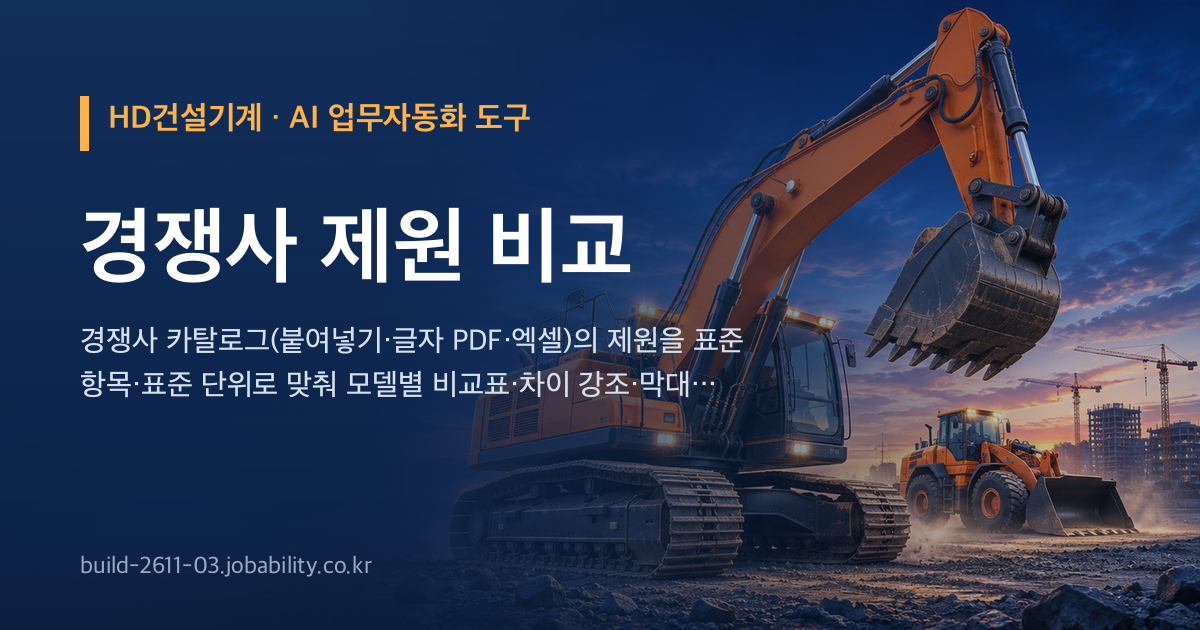
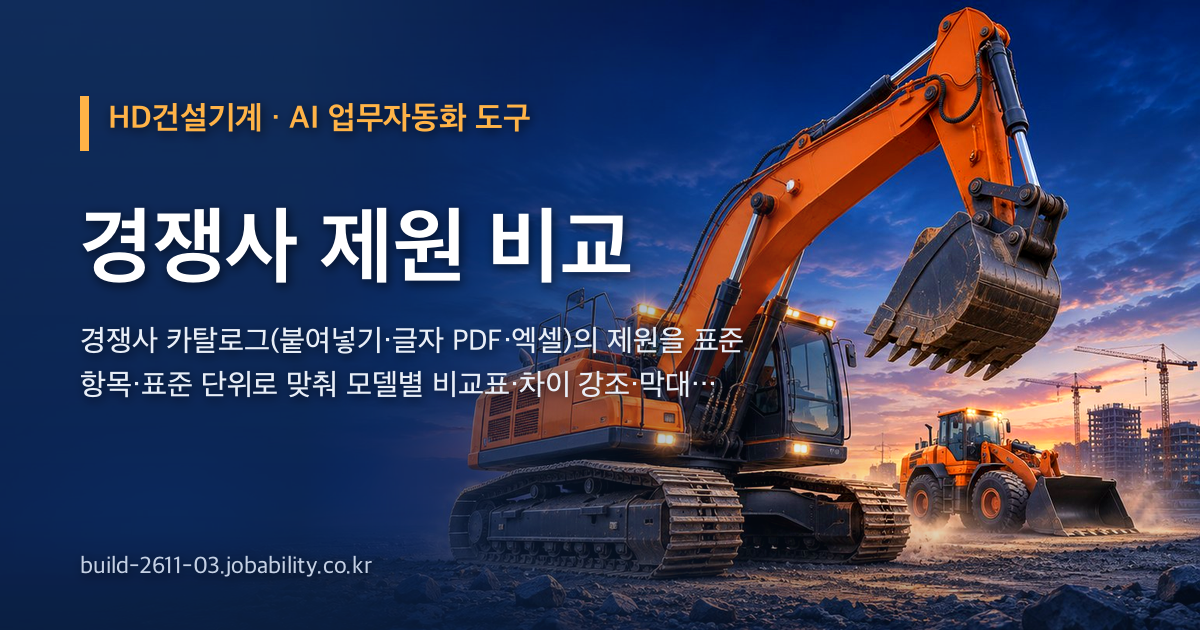
공유 그림 다시(사진 또렷하게) · 판 2026-11-13.12

Changed region(s): [[0.37, 0.0, 1.0, 0.9349], [0.0617, 0.8746, 0.3083, 0.9048], [0.9558, 0.1508, 0.9867, 0.181]]

diff --git a/index.html b/index.html
@@ -12,8 +12,8 @@
 <meta property="og:title" content="HD건설기계 · 경쟁사 제원 비교">
 <meta property="og:description" content="경쟁사 카탈로그(붙여넣기·글자 PDF·엑셀)의 제원을 표준 항목·표준 단위로 맞춰 모델별 비교표·차이 강조·막대 그래프·Standard/Option 표·인양력 격자 비교를 만들고 엑셀로 내보내는 도구입니다.">
 <meta property="og:url" content="https://build-2611-03.jobability.co.kr/">
-<meta property="og:image" content="https://build-2611-03.jobability.co.kr/og-image.png">
-<meta property="og:image:secure_url" content="https://build-2611-03.jobability.co.kr/og-image.png">
+<meta property="og:image" content="https://build-2611-03.jobability.co.kr/og-image.png?v=2">
+<meta property="og:image:secure_url" content="https://build-2611-03.jobability.co.kr/og-image.png?v=2">
 <meta property="og:image:type" content="image/png">
 <meta property="og:image:width" content="1200">
 <meta property="og:image:height" content="630">
@@ -22,7 +22,7 @@
 <meta name="twitter:card" content="summary_large_image">
 <meta name="twitter:title" content="HD건설기계 · 경쟁사 제원 비교">
 <meta name="twitter:description" content="경쟁사 카탈로그(붙여넣기·글자 PDF·엑셀)의 제원을 표준 항목·표준 단위로 맞춰 모델별 비교표·차이 강조·막대 그래프·Standard/Option 표·인양력 격자 비교를 만들고 엑셀로 내보내는 도구입니다.">
-<meta name="twitter:image" content="https://build-2611-03.jobability.co.kr/og-image.png">
+<meta name="twitter:image" content="https://build-2611-03.jobability.co.kr/og-image.png?v=2">
 <!-- /seo-kit -->
 <meta name="description" content="경쟁사 카탈로그(붙여넣기·글자 PDF·엑셀)의 제원을 표준 항목·표준 단위로 맞춰 모델별 비교표·차이 강조·막대 그래프·Standard/Option 표·인양력 격자 비교를 만들고 엑셀로 내보내는 도구입니다.">
 <link rel="icon" href="favicon.svg" type="image/svg+xml">
@@ -30,9 +30,9 @@
 <link rel="stylesheet" href="css/app.css">
 <!-- auth-kit: 로그인 전에는 도구 화면을 감춘다(js/auth.js 가 판정 뒤 푼다) -->
 <script>document.documentElement.classList.add('auth-lock')</script>
-<link rel="stylesheet" href="css/auth.css?v=2026-11-13.11">
-<link rel="stylesheet" href="css/board.css?v=2026-11-13.11">
-<link rel="stylesheet" href="css/kit-build.css?v=2026-11-13.11">
+<link rel="stylesheet" href="css/auth.css?v=2026-11-13.12">
+<link rel="stylesheet" href="css/board.css?v=2026-11-13.12">
+<link rel="stylesheet" href="css/kit-build.css?v=2026-11-13.12">
 <!-- /auth-kit -->
 </head>
 <body>
@@ -179,11 +179,11 @@
 <script src="js/spec.js"></script>
 <script src="js/app.js"></script>
 <!-- auth-kit: 로그인 · 사용 신청 · 승인 · 게시판(키트 정본 data10-00/kit/auth, 적용 build-2611-00/tools/kit) -->
-<script src="vendor/supabase.js?v=2026-11-13.11"></script>
-<script src="js/auth-config.js?v=2026-11-13.11"></script>
-<script src="js/kit-build.js?v=2026-11-13.11"></script>
-<script src="js/board.js?v=2026-11-13.11"></script>
-<script src="js/auth.js?v=2026-11-13.11"></script>
+<script src="vendor/supabase.js?v=2026-11-13.12"></script>
+<script src="js/auth-config.js?v=2026-11-13.12"></script>
+<script src="js/kit-build.js?v=2026-11-13.12"></script>
+<script src="js/board.js?v=2026-11-13.12"></script>
+<script src="js/auth.js?v=2026-11-13.12"></script>
 <!-- /auth-kit -->
 </body>
 </html>

diff --git a/guide.html b/guide.html
@@ -12,8 +12,8 @@
 <meta property="og:title" content="사용법 — 경쟁사 제원 비교">
 <meta property="og:description" content="경쟁사 카탈로그(붙여넣기·글자 PDF·엑셀)의 제원을 표준 항목·표준 단위로 맞춰 모델별 비교표·차이 강조·막대 그래프·Standard/Option 표·인양력 격자 비교를 만들고 엑셀로 내보내는 도구입니다.">
 <meta property="og:url" content="https://build-2611-03.jobability.co.kr/guide.html">
-<meta property="og:image" content="https://build-2611-03.jobability.co.kr/og-image.png">
-<meta property="og:image:secure_url" content="https://build-2611-03.jobability.co.kr/og-image.png">
+<meta property="og:image" content="https://build-2611-03.jobability.co.kr/og-image.png?v=2">
+<meta property="og:image:secure_url" content="https://build-2611-03.jobability.co.kr/og-image.png?v=2">
 <meta property="og:image:type" content="image/png">
 <meta property="og:image:width" content="1200">
 <meta property="og:image:height" content="630">
@@ -22,7 +22,7 @@
 <meta name="twitter:card" content="summary_large_image">
 <meta name="twitter:title" content="사용법 — 경쟁사 제원 비교">
 <meta name="twitter:description" content="경쟁사 카탈로그(붙여넣기·글자 PDF·엑셀)의 제원을 표준 항목·표준 단위로 맞춰 모델별 비교표·차이 강조·막대 그래프·Standard/Option 표·인양력 격자 비교를 만들고 엑셀로 내보내는 도구입니다.">
-<meta name="twitter:image" content="https://build-2611-03.jobability.co.kr/og-image.png">
+<meta name="twitter:image" content="https://build-2611-03.jobability.co.kr/og-image.png?v=2">
 <!-- /seo-kit -->
 <link rel="icon" href="favicon.svg" type="image/svg+xml">
 <link rel="stylesheet" href="css/style.css">

diff --git a/plan.html b/plan.html
@@ -12,8 +12,8 @@
 <meta property="og:title" content="기획서 — 경쟁사 제원 비교">
 <meta property="og:description" content="경쟁사 카탈로그(붙여넣기·글자 PDF·엑셀)의 제원을 표준 항목·표준 단위로 맞춰 모델별 비교표·차이 강조·막대 그래프·Standard/Option 표·인양력 격자 비교를 만들고 엑셀로 내보내는 도구입니다.">
 <meta property="og:url" content="https://build-2611-03.jobability.co.kr/plan.html">
-<meta property="og:image" content="https://build-2611-03.jobability.co.kr/og-image.png">
-<meta property="og:image:secure_url" content="https://build-2611-03.jobability.co.kr/og-image.png">
+<meta property="og:image" content="https://build-2611-03.jobability.co.kr/og-image.png?v=2">
+<meta property="og:image:secure_url" content="https://build-2611-03.jobability.co.kr/og-image.png?v=2">
 <meta property="og:image:type" content="image/png">
 <meta property="og:image:width" content="1200">
 <meta property="og:image:height" content="630">
@@ -22,7 +22,7 @@
 <meta name="twitter:card" content="summary_large_image">
 <meta name="twitter:title" content="기획서 — 경쟁사 제원 비교">
 <meta name="twitter:description" content="경쟁사 카탈로그(붙여넣기·글자 PDF·엑셀)의 제원을 표준 항목·표준 단위로 맞춰 모델별 비교표·차이 강조·막대 그래프·Standard/Option 표·인양력 격자 비교를 만들고 엑셀로 내보내는 도구입니다.">
-<meta name="twitter:image" content="https://build-2611-03.jobability.co.kr/og-image.png">
+<meta name="twitter:image" content="https://build-2611-03.jobability.co.kr/og-image.png?v=2">
 <!-- /seo-kit -->
 <link rel="icon" href="favicon.svg" type="image/svg+xml">
 <link rel="stylesheet" href="css/style.css">

diff --git a/report.html b/report.html
@@ -12,8 +12,8 @@
 <meta property="og:title" content="평가보고서 — 경쟁사 제원 비교">
 <meta property="og:description" content="경쟁사 제원 비교 점검 · 평가보고서(2026-11-13) — 사이트 점검, 기능과 시험, 인계 준비, 판 이력, 한계.">
 <meta property="og:url" content="https://build-2611-03.jobability.co.kr/report.html">
-<meta property="og:image" content="https://build-2611-03.jobability.co.kr/og-image.png">
-<meta property="og:image:secure_url" content="https://build-2611-03.jobability.co.kr/og-image.png">
+<meta property="og:image" content="https://build-2611-03.jobability.co.kr/og-image.png?v=2">
+<meta property="og:image:secure_url" content="https://build-2611-03.jobability.co.kr/og-image.png?v=2">
 <meta property="og:image:type" content="image/png">
 <meta property="og:image:width" content="1200">
 <meta property="og:image:height" content="630">
@@ -22,7 +22,7 @@
 <meta name="twitter:card" content="summary_large_image">
 <meta name="twitter:title" content="평가보고서 — 경쟁사 제원 비교">
 <meta name="twitter:description" content="경쟁사 제원 비교 점검 · 평가보고서(2026-11-13) — 사이트 점검, 기능과 시험, 인계 준비, 판 이력, 한계.">
-<meta name="twitter:image" content="https://build-2611-03.jobability.co.kr/og-image.png">
+<meta name="twitter:image" content="https://build-2611-03.jobability.co.kr/og-image.png?v=2">
 <!-- /seo-kit -->
 <meta name="description" content="경쟁사 제원 비교 점검 · 평가보고서(2026-11-13) — 사이트 점검, 기능과 시험, 인계 준비, 판 이력, 한계.">
 <link rel="icon" href="favicon.svg" type="image/svg+xml">
